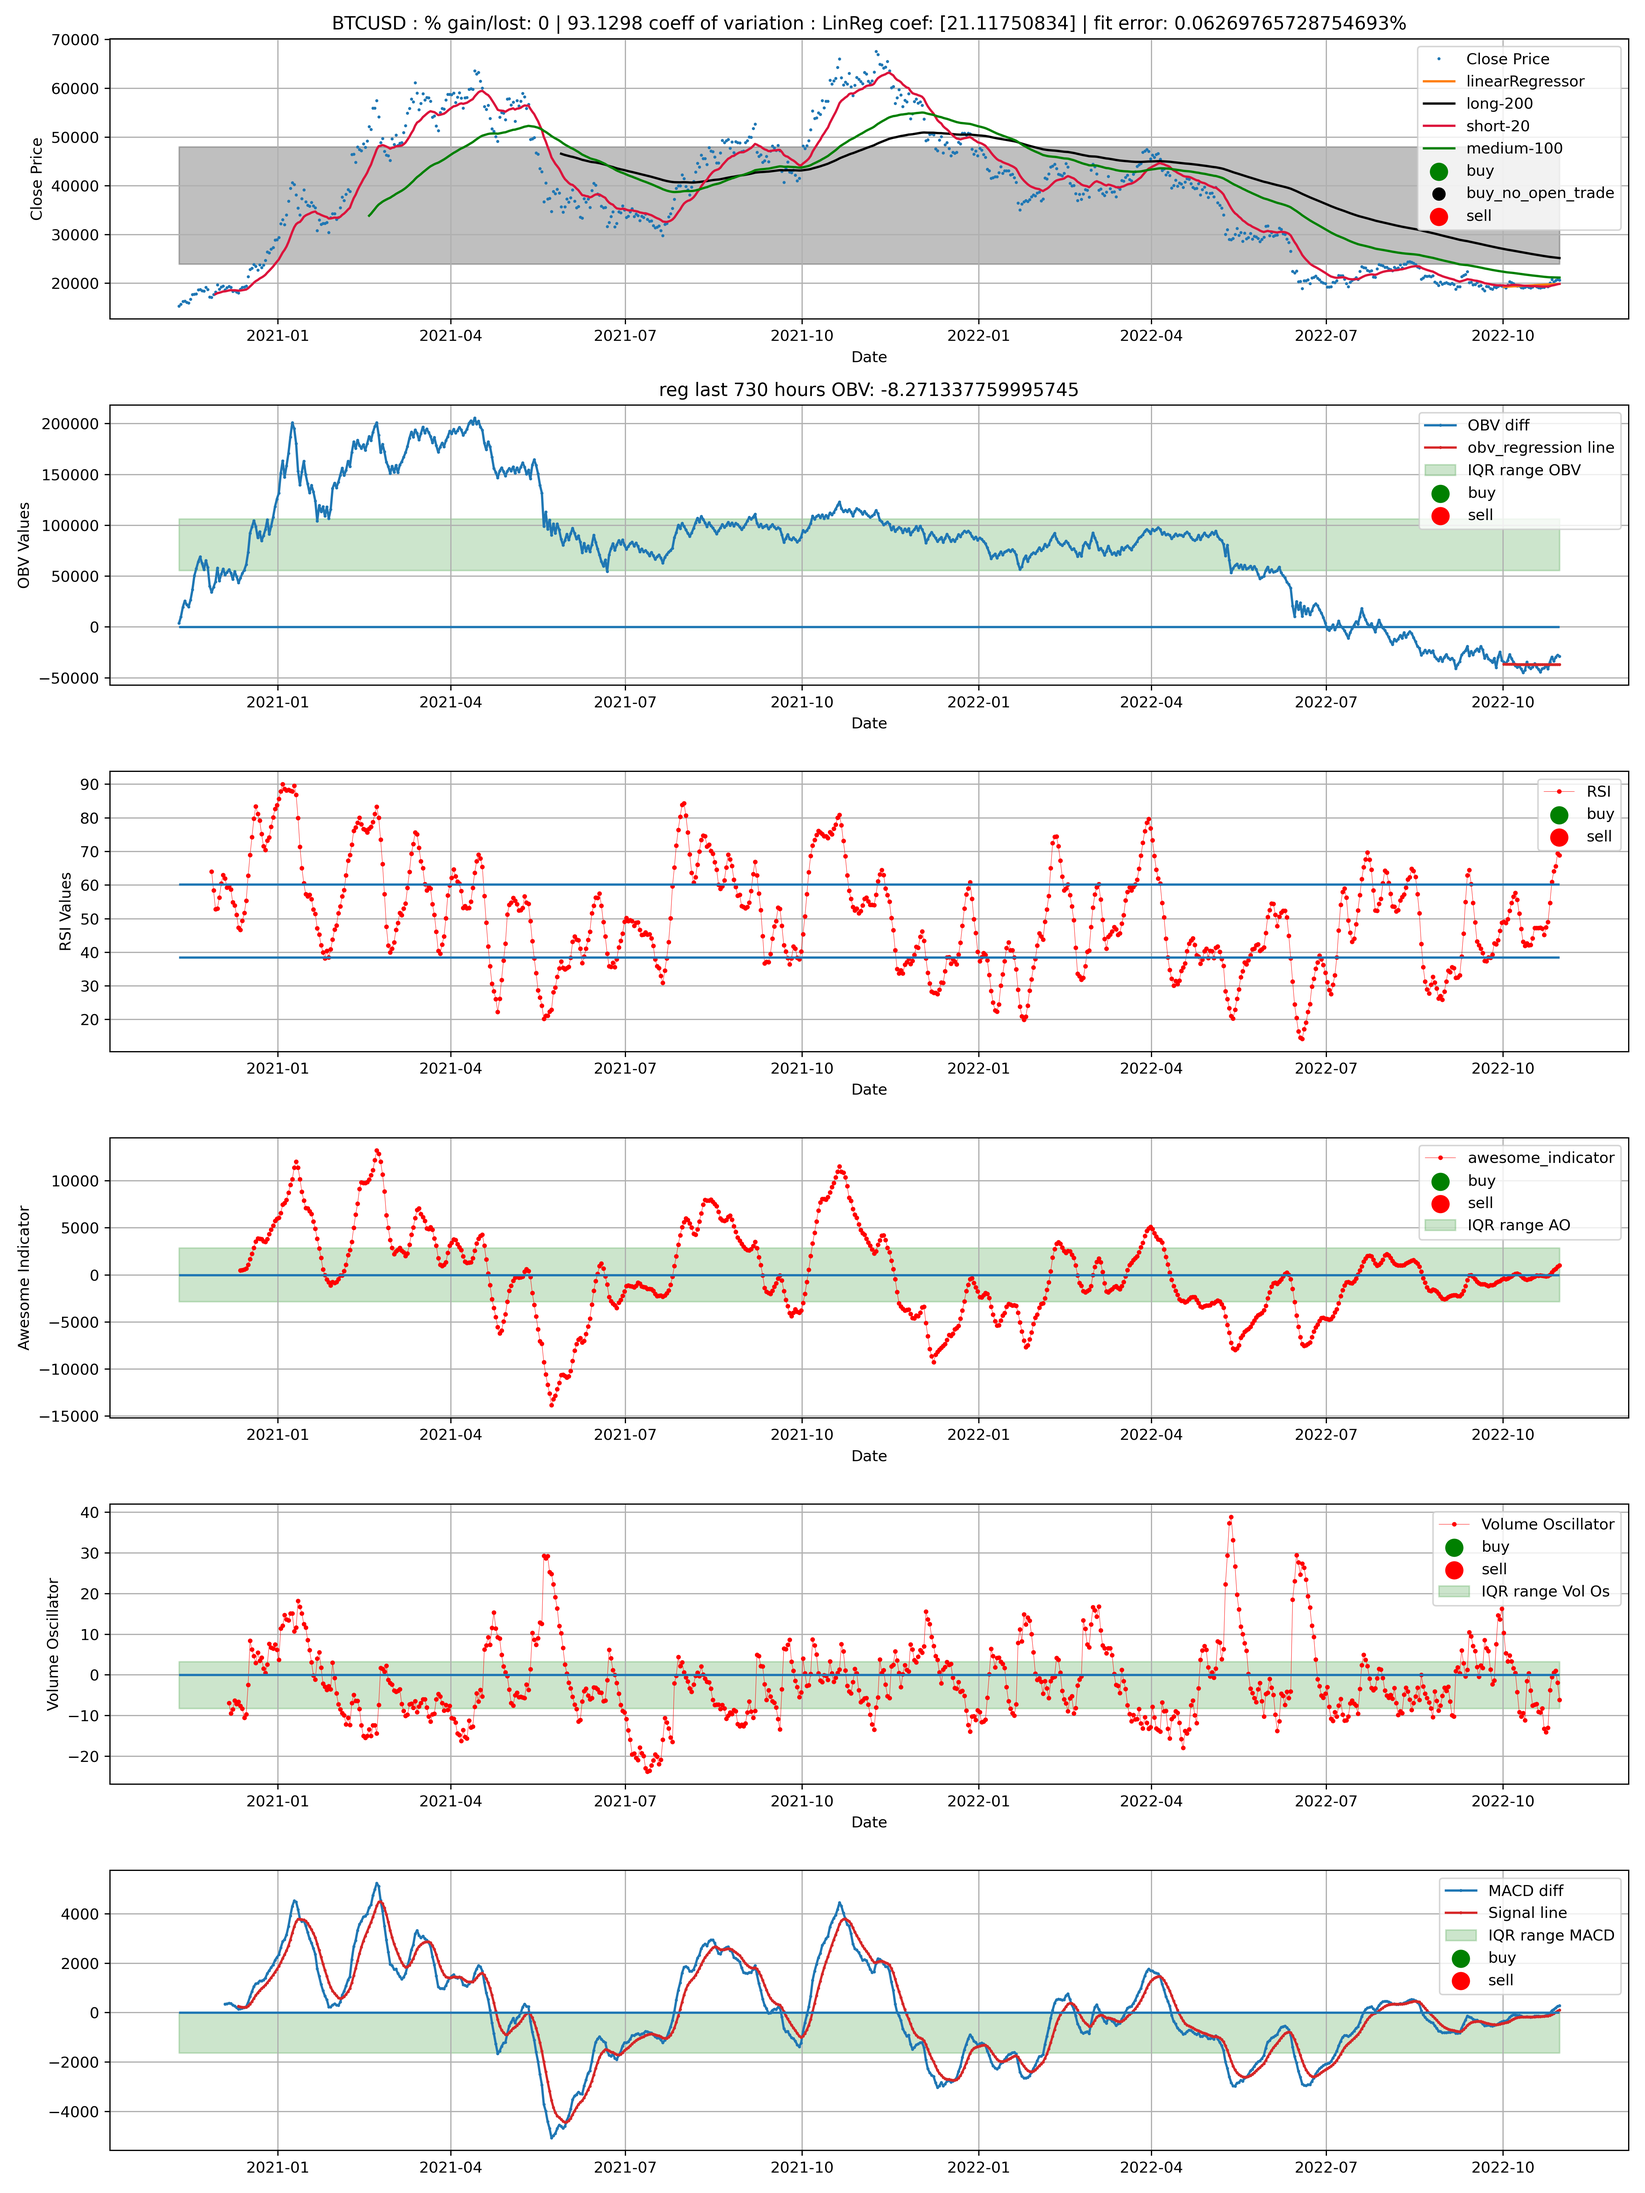
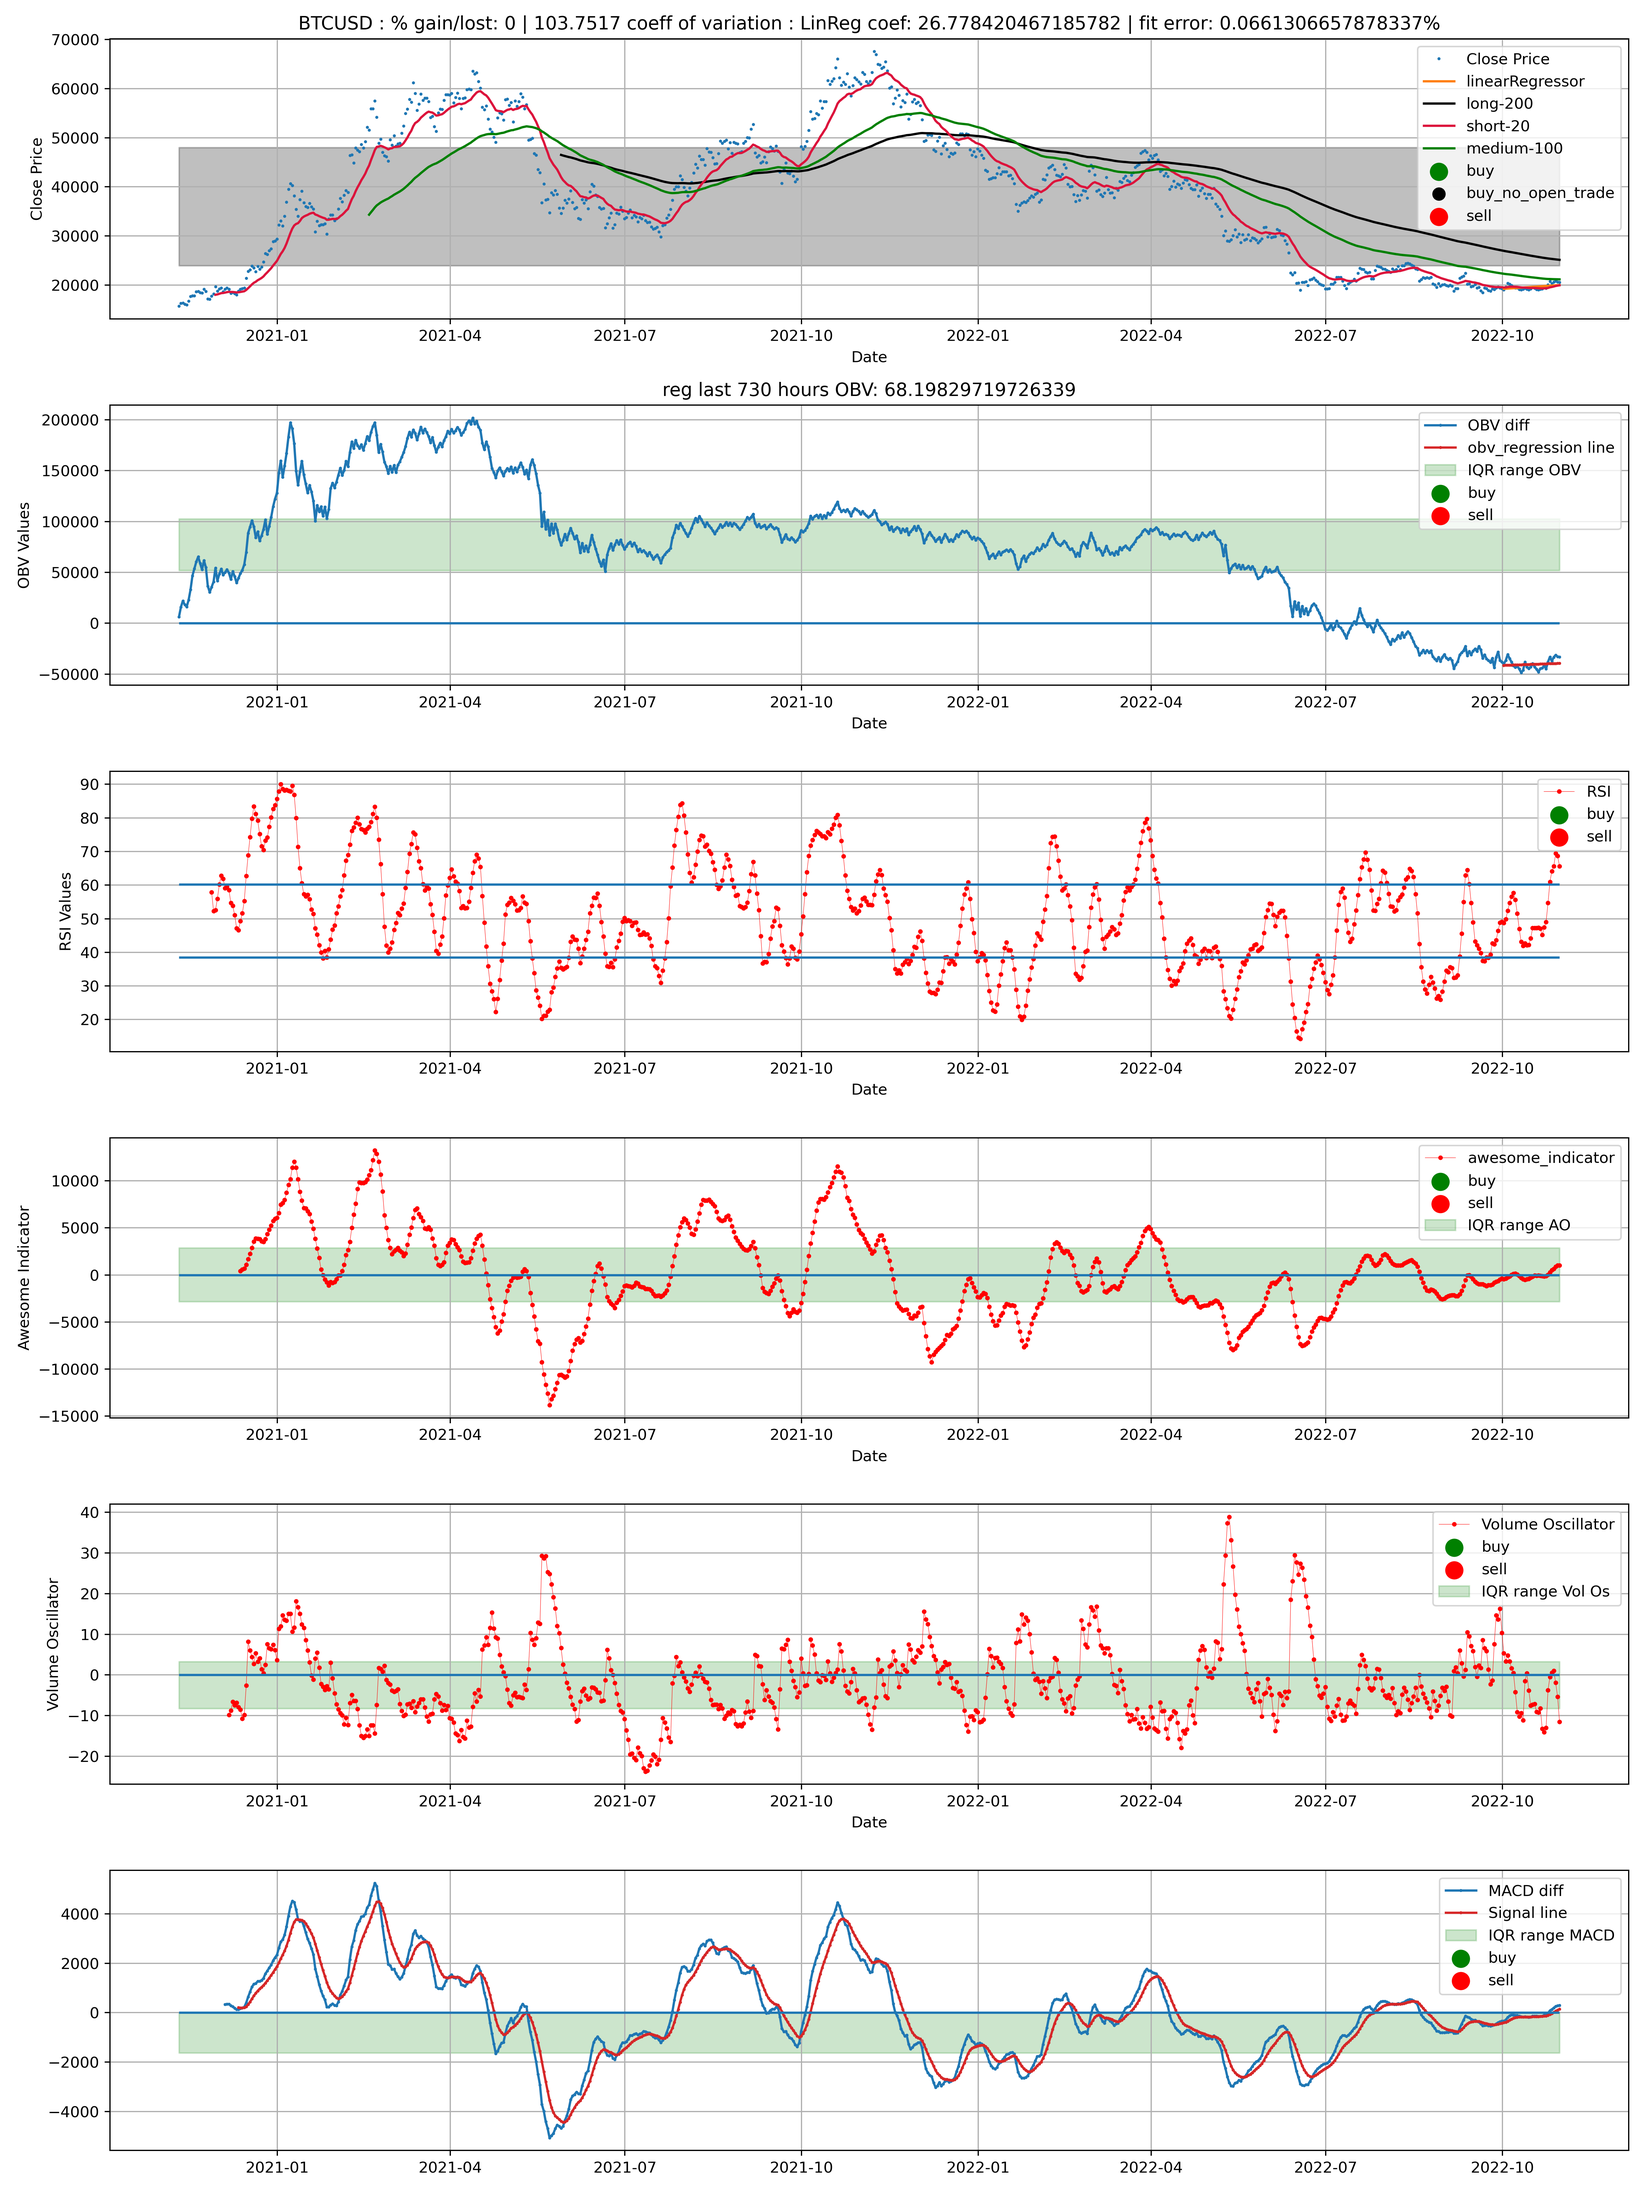
ADD: new data and fix some of the plotting functions and fix LinearRegression plotting

diff --git a/technical_analysis.py b/technical_analysis.py
@@ -268,12 +268,12 @@ class technical():
         time_increment = str(SAMPLE_RATE) + "min"
         self.data.index = date_range(end=datetime.now(),periods=len(self.data.index),freq=time_increment)
         # xlim_val = [self.data.index[int((24*60)/SAMPLE_RATE)],self.data.index[-1]]
-        x_low_lim = self.data.index[-int((24*60)/SAMPLE_RATE)]
+        x_low_lim = self.data.index[-int((self.obv_price_reg_sample*60)/SAMPLE_RATE)]
         fig, ax = plt.subplots(6,1,figsize=(15, 20)) 
         buy_df = self.data[~self.data['buy'].isnull()]
         sell_df = self.data[~self.data['sell'].isnull()]
         #plot close price
-        str_name = f'{name} : % gain/lost: {self.gain_lost} | {round(self.coef_variation,4)} coeff of variation : LinReg coef: {self.reg_coef} | fit error: {self.MAPE}%'
+        str_name = f'{name} : % gain/lost: {self.gain_lost} | {round(self.coef_variation,4)} coeff of variation : LinReg coef: {self.reg_coef[0]} | fit error: {self.MAPE}%'
         ax[0].set_title(str_name)
         ax[0].plot(self.data.index,self.data['close'],'tab:blue', marker="o",
                markersize=1, linestyle='', label = 'Close Price')
